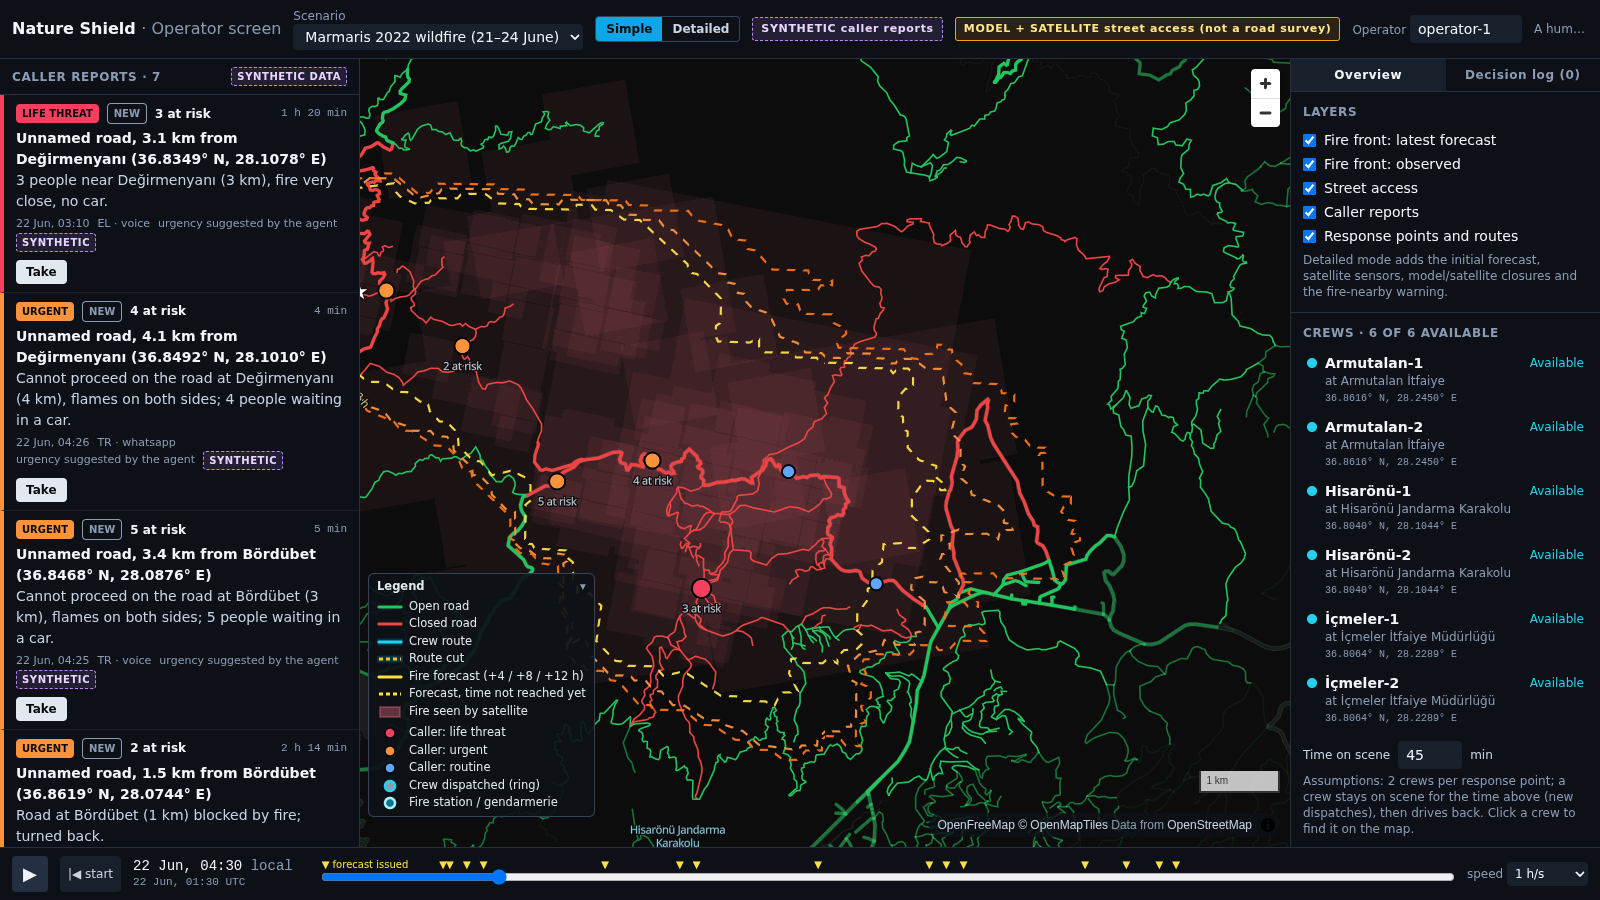
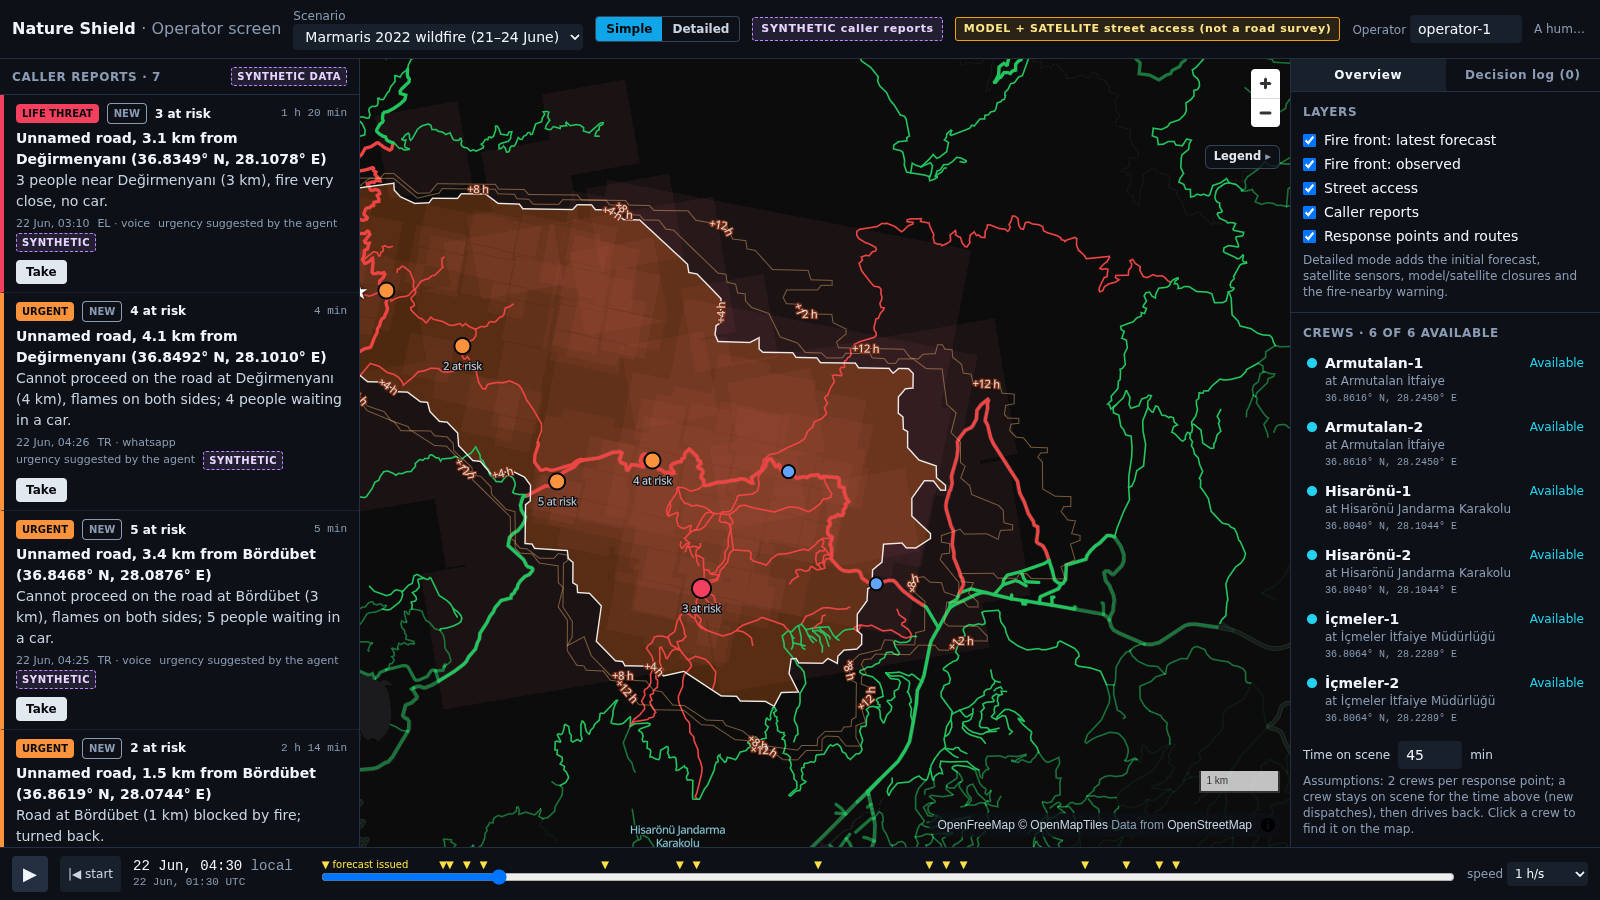
Update the Simple-mode screenshots and README

diff --git a/README.md b/README.md
@@ -47,20 +47,25 @@ Caller labels at the overview zoom and zoomed in: [overview](docs/13_labels_over
 
 The switch in the header changes how much the map shows (add `?mode=detailed` to a link to open in Detailed).
 
-- **Simple** (default): the forecast in force, everything satellites have seen so far in one light colour,
-  closed roads in one solid red, callers, crews and their routes.
+- **Simple** (default): the forecast in force as an area (the next horizon not reached yet filled in orange with a
+  white edge, later horizons as thin outlines, each tagged "+4 h / +8 h / +12 h"), everything satellites have
+  seen so far in one light colour, closed roads in one solid red, callers, crews and their routes.
 - **Detailed**: adds the satellite sensors in their own colours (VIIRS, MODIS, SLSTR, Sentinel-2 flame front and
   burned area), closed roads split into model (solid) and satellite only (dashed), the initial forecast made at
   ignition and the "fire nearby" warning.
 
-The **legend** in the bottom-left corner of the map lists the lines and colours of the mode shown; it can be
-folded away and starts folded on phones. "Fire nearby (satellite)" is a separate layer, off by default; when on,
+The **legend** is a small button under the zoom buttons; it opens there, on a translucent panel, and lists the
+lines and colours of the mode shown. "Fire nearby (satellite)" is a separate layer, off by default; when on,
 it is drawn only within 1 km of the selected caller and of active crew routes. Streets 3 km or more from the
 fire, mostly the town of Marmaris, are drawn at 7 % opacity; crew routes over them stay fully visible.
 
 | 22 June 04:30 | 23 June 11:51 |
 |---|---|
-| ![Simple vs Detailed, 22 June 04:30](docs/simple_vs_detailed_0430.png) | ![Simple vs Detailed, 23 June 11:51](docs/simple_vs_detailed_1151.png) |
+| ![Simple, 22 June 04:30](docs/simple_0430.png) | ![Simple, 23 June 11:51](docs/simple_1151.png) |
+
+Side by side with Detailed (before the forecast area was added to Simple):
+[22 June 04:30](docs/simple_vs_detailed_0430.png), [23 June 11:51](docs/simple_vs_detailed_1151.png).
+Legend opened: [docs/simple_legend_open.png](docs/simple_legend_open.png).
 
 ## What the labels mean
 
